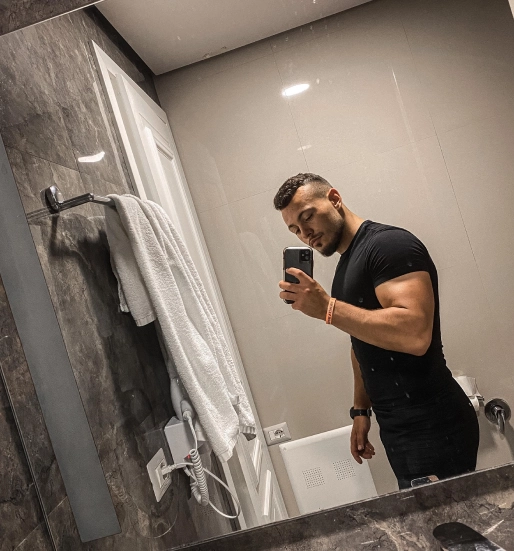
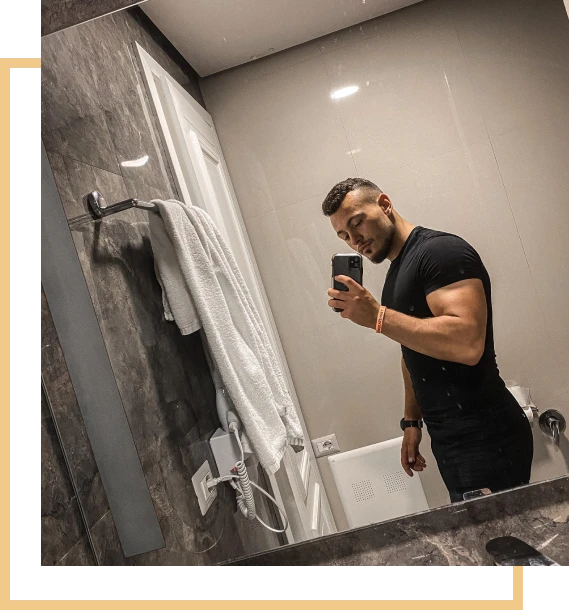
General fixes in responsiveness

diff --git a/src/styles/views/_home.scss b/src/styles/views/_home.scss
@@ -1,15 +1,14 @@
-@import "../layout/header";
-@import "./home/banner";
-@import "./home/collaborate";
-@import "./home/implementationProcess";
-@import "./home/newsletter";
-@import "./home/shouldWork";
-@import "./home/references";
-@import "./home/cta";
-@import "./home/shortMeInfo";
-@import "./home/ctaSecond";
-@import "./home/footer";
+@import '../layout/header';
+@import './home/banner';
+@import './home/collaborate';
+@import './home/implementationProcess';
+@import './home/newsletter';
+@import './home/shouldWork';
+@import './home/references';
+@import './home/cta';
+@import './home/shortMeInfo';
+@import './home/ctaSecond';
 
-@import "../components/headings";
-@import "../components/paragraphs";
-@import "../components/buttons";
+@import '../components/headings';
+@import '../components/paragraphs';
+@import '../components/buttons';

diff --git a/src/styles/views/home/_shortMeInfo.scss b/src/styles/views/home/_shortMeInfo.scss
@@ -3,11 +3,11 @@
 
 .short-personal-info {
   display: flex;
-  flex-direction: row;
-  align-items: center;
   justify-content: center;
+  align-items: center;
   margin: 0 auto;
-  padding: 8rem 0;
+  flex-direction: row;
+  margin-top: 8rem;
   &-left {
     width: 50%;
     display: flex;
@@ -48,28 +48,6 @@
     }
     @include respond(tablet-land) {
       display: none;
-    }
-
-    &::before {
-      content: '';
-      border: 10px solid var(--primary);
-      background: transparent;
-      width: 396px;
-      height: 500px;
-      position: absolute;
-      z-index: -1;
-      top: 7rem;
-      left: 25rem;
-
-      @include respond(phone) {
-        content: unset;
-      }
-      @include respond(tablet-port) {
-        content: unset;
-      }
-      @include respond(tablet-land) {
-        content: unset;
-      }
     }
   }
 }

diff --git a/src/styles/layout/_footer.scss b/src/styles/layout/_footer.scss
@@ -11,19 +11,23 @@
     margin: 0 auto;
     width: 100%;
     position: relative;
-    padding: 8rem 0 4rem 0;
+    padding-top: 8rem;
+    padding-bottom: 8rem;
 
     @include respond(phone) {
       width: unset;
-      padding: 8rem 1.6rem;
+      padding-top: 8rem;
+      padding-bottom: 8rem;
     }
     @include respond(tablet-port) {
       width: unset;
-      padding: 8rem 1.6rem;
+      padding-top: 8rem;
+      padding-bottom: 8rem;
     }
     @include respond(tablet-land) {
       width: unset;
-      padding: 8rem 1.6rem;
+      padding-top: 8rem;
+      padding-bottom: 8rem;
     }
 
     &-contact {

diff --git a/src/styles/views/about/_bannerText.scss b/src/styles/views/about/_bannerText.scss
@@ -115,27 +115,6 @@
           margin-left: 0;
         }
       }
-      &::before {
-        content: '';
-        border: 10px solid var(--primary);
-        background: transparent;
-        width: 396px;
-        height: 500px;
-        position: absolute;
-        z-index: 1;
-        top: 7rem;
-        left: 12rem;
-
-        @include respond(phone) {
-          content: unset;
-        }
-        @include respond(tablet-port) {
-          content: unset;
-        }
-        @include respond(tablet-land) {
-          content: unset;
-        }
-      }
     }
   }
 }

diff --git a/src/styles/views/about/_whoIAm.scss b/src/styles/views/about/_whoIAm.scss
@@ -77,27 +77,6 @@
     @include respond(tablet-land) {
       width: 100%;
     }
-    &::before {
-      content: '';
-      border: 10px solid var(--primary);
-      background: transparent;
-      width: 396px;
-      height: 500px;
-      position: absolute;
-      z-index: -1;
-      top: 7rem;
-      left: 8rem;
-
-      @include respond(phone) {
-        content: unset;
-      }
-      @include respond(tablet-port) {
-        content: unset;
-      }
-      @include respond(tablet-land) {
-        content: unset;
-      }
-    }
 
     img {
       margin-left: auto;

diff --git a/src/pages/blog/index.tsx b/src/pages/blog/index.tsx
@@ -1,10 +1,8 @@
 import { GetStaticProps } from 'next';
 import BlogPage, { PostsProps } from '../../components/Blog/BlogPage';
 import { getAllPosts } from '../../lib/posts';
-import { request } from 'graphql-request';
-import { useRouter } from 'next/router';
 
-export const getStaticProps: GetStaticProps = async ({ params, locale }) => {
+export const getStaticProps: GetStaticProps = async ({ locale }) => {
   const posts = await getAllPosts(locale as string);
   return {
     props: {

diff --git a/src/pages/blog/[id].tsx b/src/pages/blog/[id].tsx
@@ -1,9 +1,6 @@
-import { GetStaticProps } from 'next';
 import PostSinglePage from '../../components/Blog/posts/PostSinglePage';
 import { graphqlAPI } from '../../constants/constants';
-import { getSinglePost } from '../../lib/post';
-import { Post } from '../../types/post';
-import request, { gql, GraphQLClient } from 'graphql-request';
+import { gql, GraphQLClient } from 'graphql-request';
 
 const hygraph = new GraphQLClient(graphqlAPI);
 

diff --git a/src/styles/views/home/_ctaSecond.scss b/src/styles/views/home/_ctaSecond.scss
@@ -19,13 +19,15 @@
     margin: 0 auto;
     width: 100%;
     position: relative;
-    padding: 8rem 0;
+    padding-top: 8rem;
+    padding-bottom: 8rem;
 
     @include respond(phone) {
       width: unset;
-      padding: 8rem 1.6rem;
+      padding-top: 8rem;
       margin: 0 auto;
       text-align: center;
+      padding-bottom: 8rem;
     }
     @include respond(tablet-port) {
       width: unset;

diff --git a/src/pages/packages.tsx b/src/pages/packages.tsx
@@ -1,11 +1,9 @@
-//Layout views
-import Navbar from '../components/Navbar/Navbar';
+//Layout view
 import PackagesPage from '../components/Packages/Packages';
 
 const Packages = () => {
   return (
     <>
-      <Navbar />
       <PackagesPage />
     </>
   );

diff --git a/src/lib/post.ts b/src/lib/post.ts
@@ -1,4 +1,4 @@
-import request, { gql, GraphQLClient } from 'graphql-request';
+import { GraphQLClient } from 'graphql-request';
 import { graphqlAPI } from '../constants/constants';
 
 const hygraph = new GraphQLClient(graphqlAPI);

diff --git a/src/lib/posts.ts b/src/lib/posts.ts
@@ -1,4 +1,4 @@
-import request, { gql, GraphQLClient } from 'graphql-request';
+import { GraphQLClient } from 'graphql-request';
 import { graphqlAPI } from '../constants/constants';
 
 const hygraph = new GraphQLClient(graphqlAPI);

diff --git a/src/pages/contact.tsx b/src/pages/contact.tsx
@@ -1,10 +1,8 @@
-import Navbar from '../components/Navbar/Navbar';
 import ContactPage from '../components/Contact/ContactPage';
 
 const Contact = () => {
   return (
     <>
-      <Navbar />
       <ContactPage />
     </>
   );
